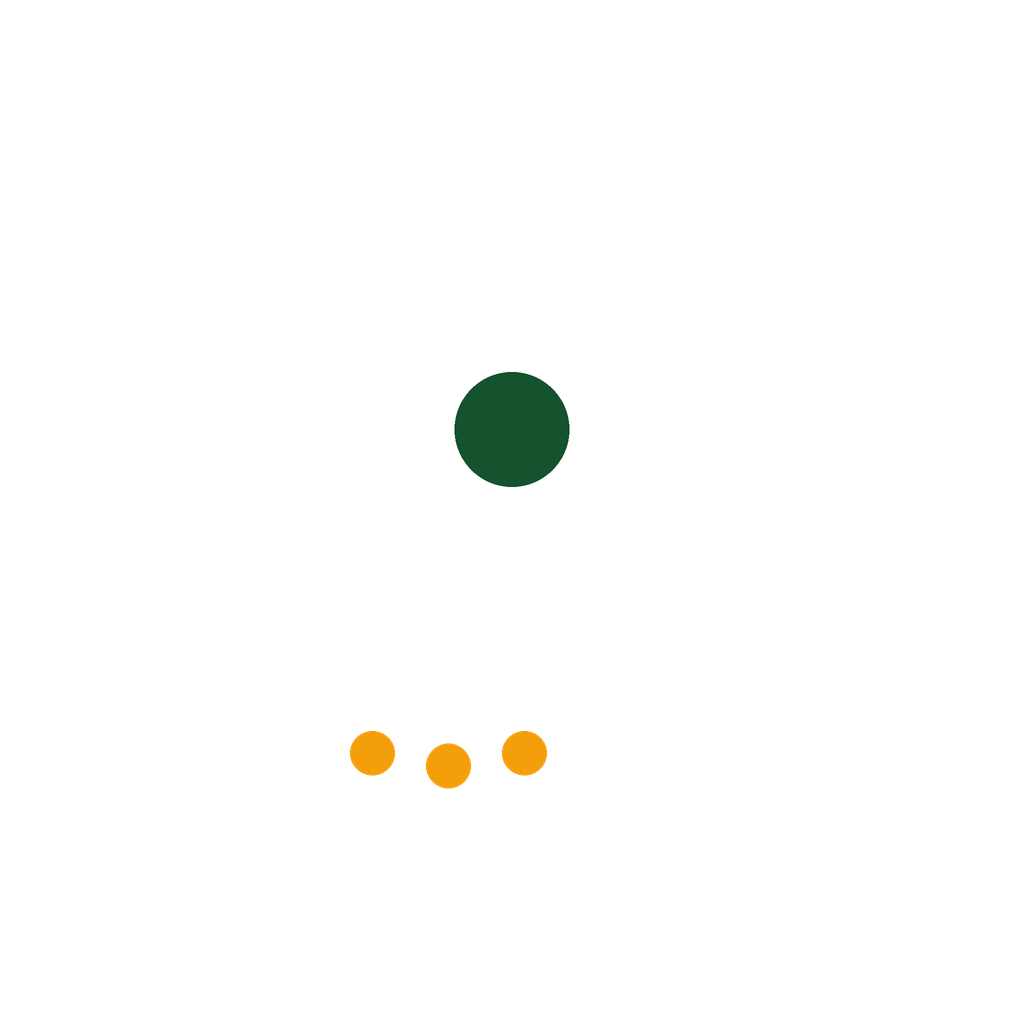
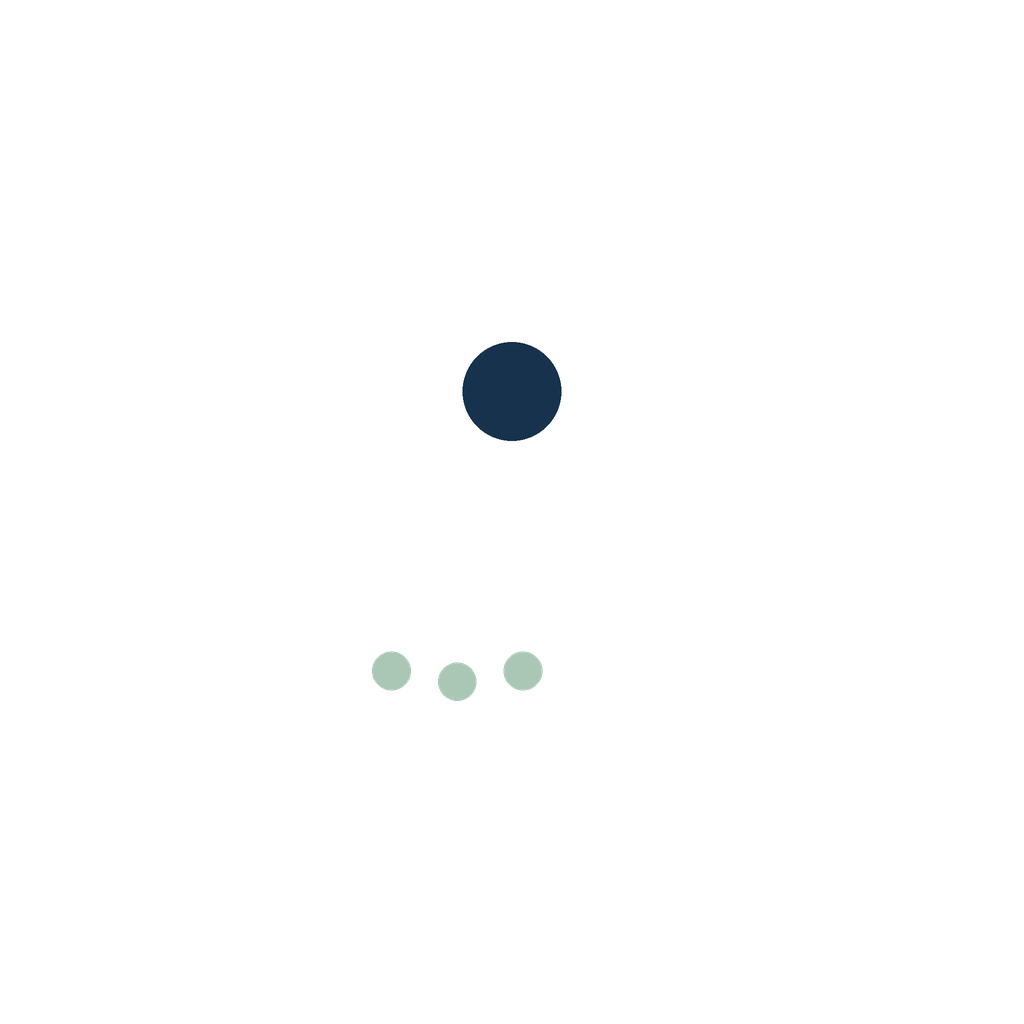
Add files via upload

Changed region(s): [[0.3438, 0.625, 0.5312, 0.7812], [0.4375, 0.3125, 0.5625, 0.5]]

diff --git a/www/app.js b/www/app.js
@@ -8,7 +8,7 @@ const kv={get:async k=>{const d=await dbp;return new Promise((r,j)=>{const q=d.t
 set:async(k,v)=>{const d=await dbp;return new Promise((r,j)=>{const t=d.transaction('kv','readwrite');t.objectStore('kv').put(v,k);t.oncomplete=()=>r();t.onerror=t.onabort=()=>j(t.error||new Error('Transaksi dibatalkan'))})}};
 const kvg=k=>kv.get(k).catch(e=>{console.error('baca gagal',k,e)});
 let F=[],PM=[],S={coord:'dd',unit:'metric',base:'osm'},mode=null,draft=[],fix=null,tracking=false,tcoords=[],tline,target=null,cur=null,pick=null,hdg=null;
-let saveWarned=false;
+let saveWarned=false,t0=0,bgP=null,trkSaved=0;
 const persist=()=>Promise.all([kv.set('F',F),kv.set('S',S)]).then(()=>{saveWarned=false}).catch(e=>{console.error('simpan gagal',e);if(!saveWarned){saveWarned=true;toast('⚠ Data GAGAL tersimpan (penyimpanan penuh?). Ekspor data Anda sekarang.')}});
 const toast=t=>{const e=$('#toast');e.textContent=t;e.style.display='block';clearTimeout(toast.t);toast.t=setTimeout(()=>e.style.display='none',2800)};
 // ---------- peta ----------
@@ -42,8 +42,9 @@ function brg(a,b){const r=Math.PI/180,dl=(b[1]-a[1])*r,y=Math.sin(dl)*Math.cos(b
 const card=d=>['U','TL','T','TG','S','BD','B','BL'][Math.round(d/45)%8];
 // ---------- GPS, kompas, HUD ----------
 let gpsMsg='Mencari GPS… (pergi ke tempat terbuka)',gpsOn=false;
+const applyFix=(lat,lon,acc,hd,sp)=>{fix={lat,lon,acc,hd,sp,t:Date.now()};kv.set('last',fix).catch(()=>{});onFix()};
 async function startGPS(){const G=C&&C.Plugins&&C.Plugins.Geolocation;
- const cb=p=>{if(!p)return;fix={lat:p.coords.latitude,lon:p.coords.longitude,acc:p.coords.accuracy,hd:p.coords.heading,sp:p.coords.speed,t:Date.now()};kv.set('last',fix).catch(()=>{});onFix()};
+ const cb=p=>{if(p)applyFix(p.coords.latitude,p.coords.longitude,p.coords.accuracy,p.coords.heading,p.coords.speed)};
  if(G&&native){
   if(gpsOn)return;
   let st;try{st=await G.checkPermissions()}catch(e){st={location:'granted'}}
@@ -57,7 +58,7 @@ let gm,gc,tgl;
 function onFix(){const ll=[fix.lat,fix.lon];
  if(!gm){gm=L.circleMarker(ll,{radius:8,color:'#fff',weight:3,fillColor:'#2563eb',fillOpacity:1}).addTo(GL);gc=L.circle(ll,{radius:fix.acc,weight:1,interpolate:0}).addTo(GL)}
  else{gm.setLatLng(ll);gc.setLatLng(ll).setRadius(fix.acc)}
- if(tracking&&fix.acc<=50){const l=tcoords[tcoords.length-1];if(!l||map.distance([l[1],l[0]],ll)>3){tcoords.push([fix.lon,fix.lat]);tline.setLatLngs(tcoords.map(c=>[c[1],c[0]]))}}
+ if(tracking&&fix.acc<=50){const l=tcoords[tcoords.length-1];if(!l||map.distance([l[1],l[0]],ll)>3){tcoords.push([fix.lon,fix.lat]);tline.setLatLngs(tcoords.map(c=>[c[1],c[0]]));saveTrk()}}
  if(fix.hd!=null&&fix.sp>1)setHdg(fix.hd);
  if(target){if(tgl)map.removeLayer(tgl);tgl=L.polyline([ll,[target.lat,target.lon]],{color:'#f59e0b',dashArray:'6'}).addTo(map)}
  hud()}
@@ -71,10 +72,22 @@ function setHdg(h){hdg=h;$('#ar').style.transform=`rotate(${h}deg)`;$('#hd').tex
 addEventListener('deviceorientationabsolute',e=>{if(e.alpha!=null)setHdg((360-e.alpha)%360)},true);
 function locate(){if(fix)map.setView([fix.lat,fix.lon],Math.max(map.getZoom(),16));else toast('GPS belum mendapat sinyal')}
 let pm;function setPick(ll){pick=ll;if(pm)map.removeLayer(pm);pm=L.circleMarker(ll,{radius:7,color:'#7c3aed'}).addTo(map);hud()}
-// ---------- track ----------
-function toggleTrack(){const b=$('#bt');
- if(!tracking){tracking=true;tcoords=[];tline=L.polyline([],{color:'#16a34a',weight:4}).addTo(map);b.classList.add('on');toast('Merekam track (jaga layar tetap menyala)')}
- else{tracking=false;b.classList.remove('on');map.removeLayer(tline);if(tcoords.length>1)newF('LineString',tcoords,{name:'Track '+new Date().toLocaleString('id-ID')});else toast('Track terlalu pendek');tcoords=[]}}
+// ---------- track (tetap merekam saat layar dikunci / aplikasi diminimalkan) ----------
+// Android menghentikan GPS WebView begitu aplikasi di latar belakang. Maka saat merekam, TAPAK menjalankan
+// layanan latar depan (foreground service) lewat plugin @capacitor-community/background-geolocation,
+// dengan notifikasi permanen. Titik juga disimpan ke IndexedDB berkala agar jejak selamat bila aplikasi tertutup.
+const BG=()=>native&&C.Plugins&&(C.Plugins.BackgroundGeolocation||(C.registerPlugin&&C.registerPlugin('BackgroundGeolocation')));
+function bgStart(){const B=BG();if(!B){if(native)toast('Rekam latar belakang tidak tersedia di build ini');return}
+ if(bgP)return;
+ bgP=B.addWatcher({backgroundTitle:'TAPAK sedang merekam jejak',backgroundMessage:'Spectra CC · Ketuk untuk membuka TAPAK',requestPermissions:false,stale:false,distanceFilter:3},(l,e)=>{
+  if(e){if(e.code==='NOT_AUTHORIZED'){toast('Izin lokasi diperlukan agar rekaman tetap jalan di latar belakang');bgStop()}return}
+  if(l)applyFix(l.latitude,l.longitude,l.accuracy,l.bearing,l.speed)}).catch(err=>{bgP=null;console.error('bg watcher',err);toast('Rekam di latar belakang gagal aktif. Biarkan TAPAK tetap terbuka.')})}
+async function bgStop(){const B=BG(),p=bgP;bgP=null;if(!B||!p)return;try{const id=await p;if(id!=null)await B.removeWatcher({id})}catch(e){console.error('bg stop',e)}}
+function saveTrk(force){const n=Date.now();if(!force&&n-trkSaved<8000)return;trkSaved=n;kv.set('trk',{t0,coords:tcoords}).catch(()=>{})}
+function startTrack(c,t){tracking=true;tcoords=c||[];t0=t||Date.now();if(tline)map.removeLayer(tline);
+ tline=L.polyline(tcoords.map(p=>[p[1],p[0]]),{color:'#158b90',weight:5}).addTo(map);saveTrk(true);bgStart()}
+async function endTrack(){tracking=false;if(tline){map.removeLayer(tline);tline=null}const c=tcoords;tcoords=[];await bgStop();trkSaved=0;kv.set('trk',null).catch(()=>{});return c}
+document.addEventListener('visibilitychange',()=>{if(document.visibilityState==='hidden'&&tracking)saveTrk(true)});
 // ---------- menggambar & mengukur ----------
 const sheet=h=>{const s=$('#sheet');s.innerHTML='<div class=grab></div><button class=x onclick=closeSheet()>✕</button>'+h;s.hidden=false;s.scrollTop=0},closeSheet=()=>{$('#sheet').hidden=true};
 function startMode(m){closeSheet();mode=m;draft=[];DG.clearLayers();$('#dbar').hidden=false;$('#dinfo').textContent=m=='point'?'Ketuk peta untuk menaruh titik':'Ketuk peta untuk menambah vertex'}
@@ -183,8 +196,8 @@ async function out(name,blob){const b64=await new Promise(r=>{const fr=new FileR
 const geom=f=>({type:f.type,coordinates:f.type=='Point'?f.coords[0]:f.type=='Polygon'?[[...f.coords,f.coords[0]]]:f.coords});
 const gj=(trunc)=>({type:'FeatureCollection',features:F.map(f=>{const p={nama:f.props.name,deskripsi:f.props.desc};
  for(const[k,v]of Object.entries(f.props.custom))p[trunc?k.slice(0,10):k]=v;p[trunc?'foto':'foto']=f.photos.map(x=>x.name).join(';');return{type:'Feature',properties:p,geometry:geom(f)}})});
-const expGJ=()=>out('patroli.geojson',new Blob([JSON.stringify(gj(),null,1)],{type:'application/geo+json'}));
-async function expKMZ(){const z=new JSZip();let k='<?xml version="1.0" encoding="UTF-8"?><kml xmlns="http://www.opengis.net/kml/2.2"><Document><name>Patroli</name><Style id="s"><LineStyle><color>ff481de1</color><width>3</width></LineStyle><PolyStyle><color>55481de1</color></PolyStyle></Style>';
+const expGJ=()=>out('patroli.geojson',new Blob([JSON.stringify({...gj(),generator:'TAPAK - Spectra CC (Spectra Citra Cendekia)'},null,1)],{type:'application/geo+json'}));
+async function expKMZ(){const z=new JSZip();let k='<?xml version="1.0" encoding="UTF-8"?><kml xmlns="http://www.opengis.net/kml/2.2"><Document><name>Patroli</name><description>Dibuat dengan TAPAK · Spectra CC (Spectra Citra Cendekia)</description><Style id="s"><LineStyle><color>ff481de1</color><width>3</width></LineStyle><PolyStyle><color>55481de1</color></PolyStyle></Style>';
  F.forEach(f=>{const co=f.coords.map(c=>c[0]+','+c[1]+',0').join(' '),g=f.type=='Point'?`<Point><coordinates>${co}</coordinates></Point>`:f.type=='LineString'?`<LineString><coordinates>${co}</coordinates></LineString>`:`<Polygon><outerBoundaryIs><LinearRing><coordinates>${co} ${f.coords[0][0]},${f.coords[0][1]},0</coordinates></LinearRing></outerBoundaryIs></Polygon>`;
  const ed=Object.entries(f.props.custom).map(([a,b])=>`<Data name="${esc(a)}"><value>${esc(b)}</value></Data>`).join('');
  const im=f.photos.map(p=>{z.file('files/'+p.name,p.data.split(',')[1],{base64:true});return`<img src="files/${p.name}" width="400"/>`}).join('');
@@ -195,4 +208,5 @@ async function expSHP(){if(!window.shpwrite)return toast('Modul SHP tidak termua
  F.forEach(f=>f.photos.forEach(p=>z.file('patroli/foto/'+p.name,p.data.split(',')[1],{base64:true})));out('patroli_shp.zip',await z.generateAsync({type:'blob'}))}catch(e){toast('SHP gagal: '+e.message)}}
 // ---------- start ----------
 (async()=>{try{navigator.storage&&navigator.storage.persist&&navigator.storage.persist()}catch(e){}purgeExports();
-S={...S,...(await kvg('S')||{})};F=await kvg('F')||[];const last=await kvg('last');if(last){fix={...last,t:0};map.setView([last.lat,last.lon],14);gpsMsg='Posisi terakhir diketahui; menunggu GPS…'}PM=await kvg('PM')||[];setBase(S.base);draw();PM.forEach(showPM);startGPS();hud()})();
+S={...S,...(await kvg('S')||{})};F=await kvg('F')||[];const last=await kvg('last');if(last){fix={...last,t:0};map.setView([last.lat,last.lon],14);gpsMsg='Posisi terakhir diketahui; menunggu GPS…'}PM=await kvg('PM')||[];setBase(S.base);draw();PM.forEach(showPM);startGPS();hud();
+const tk=await kvg('trk');if(tk&&tk.coords&&tk.coords.length){startTrack(tk.coords,tk.t0);if(window.trackUI)trackUI();toast('Rekaman jejak sebelumnya dilanjutkan ('+tk.coords.length+' titik)')}})();

diff --git a/www/style.css b/www/style.css
@@ -1,4 +1,4 @@
-:root{--g:#14532d;--g2:#166534;--gl:#dcfce7;--a:#d97706;--ink:#1c1917;--mut:#57534e;--line:#e7e5e4;--sb:env(safe-area-inset-bottom,0px);--st:env(safe-area-inset-top,0px)}
+:root{--g:#17324d;--g2:#158b90;--gl:#dce9ef;--gr:#357954;--a:#d97706;--serif:Cambria,'Noto Serif',Georgia,'Times New Roman',serif;--ink:#1c1917;--mut:#57534e;--line:#e7e5e4;--sb:env(safe-area-inset-bottom,0px);--st:env(safe-area-inset-top,0px)}
 *{-webkit-tap-highlight-color:transparent;box-sizing:border-box}
 html,body{margin:0;height:100%;font:16px/1.4 system-ui,-apple-system,Roboto,sans-serif;color:var(--ink);overflow:hidden}
 #map{position:absolute;inset:0 0 calc(66px + var(--sb)) 0;background:#e7e5e4}
@@ -22,7 +22,8 @@ nav .add{color:var(--g)}nav .add b{width:58px;height:58px;line-height:56px;margi
 #sheet{position:absolute;bottom:calc(66px + var(--sb));left:0;right:0;max-height:72vh;overflow:auto;background:#fff;border-radius:22px 22px 0 0;z-index:1001;padding:22px 16px 16px;box-shadow:0 -4px 16px #0004}
 #sheet .grab{position:absolute;top:8px;left:50%;width:44px;height:5px;margin-left:-22px;border-radius:3px;background:#d6d3d1}
 #sheet .x{position:absolute;top:8px;right:10px;width:40px;height:40px;border:0;border-radius:50%;background:#f5f5f4;font-size:18px}
-h3{margin:0 0 10px;color:var(--g);font-size:20px}h4{margin:14px 0 6px;color:var(--mut);font-size:13px;text-transform:uppercase;letter-spacing:.5px}
+h3{margin:0 0 10px;color:var(--g);font-size:20px;font-family:var(--serif)}
+h3::after{content:'';display:block;width:64px;height:3px;margin-top:6px;background:linear-gradient(90deg,#17324d 0 33%,#158b90 33% 66%,#357954 66% 100%)}h4{margin:14px 0 6px;color:var(--mut);font-size:13px;text-transform:uppercase;letter-spacing:.5px}
 .grid{display:grid;grid-template-columns:1fr 1fr;gap:10px}
 .tile{min-height:84px;border:2px solid var(--line);border-radius:16px;background:#fff;font-size:15px;font-weight:700;color:var(--ink);padding:8px}
 .tile b{display:block;font-size:28px;font-weight:400}.tile.pri{background:var(--g);border-color:var(--g);color:#fff}.tile.sel{border-color:var(--g);background:var(--gl)}
@@ -36,18 +37,24 @@ h3{margin:0 0 10px;color:var(--g);font-size:20px}h4{margin:14px 0 6px;color:var(
 .mut{color:var(--mut);font-size:14px}.empty{text-align:center;padding:24px;color:var(--mut)}
 #dbar{position:absolute;bottom:calc(76px + var(--sb));left:8px;right:8px;z-index:1002;background:var(--g);color:#fff;padding:10px;border-radius:16px;display:flex;gap:6px;align-items:center;flex-wrap:wrap;box-shadow:0 3px 10px #0005}
 #dbar span{flex:1 1 100%;font-weight:600}#dbar button{flex:1;min-height:44px;border:0;border-radius:12px;background:#fff;color:var(--g);font-weight:700;font-size:15px}
-#dbar .ok{background:#f59e0b;color:#fff}#dbar .no{flex:0 0 52px;background:#fecaca;color:#991b1b}
+#dbar .ok{background:#158b90;color:#fff}#dbar .no{flex:0 0 52px;background:#fecaca;color:#991b1b}
 #toast{position:absolute;top:30%;left:50%;transform:translateX(-50%);max-width:88vw;text-align:center;background:#1c1917e6;color:#fff;padding:12px 18px;border-radius:14px;z-index:3000;display:none}
 .lt{background:#fffd;border:0;box-shadow:none;font-size:12px;font-weight:700}
 #splash{position:fixed;inset:0;z-index:5000;background:var(--g);color:#fff;display:flex;flex-direction:column;align-items:center;justify-content:center;text-align:center;transition:opacity .5s}
-#splash.off{opacity:0;pointer-events:none}#splash svg{width:120px;height:120px}#splash h1{margin:14px 0 4px;letter-spacing:8px;font-size:40px}
-#splash p{margin:0 0 18px;opacity:.85;font-size:14px}#splash em{color:#fcd34d;font-size:15px}
+#splash.off{opacity:0;pointer-events:none}#splash svg{width:120px;height:120px}#splash h1{margin:14px 0 4px;letter-spacing:8px;font-size:40px;font-family:var(--serif)}
+#splash p{margin:0 0 18px;opacity:.85;font-size:14px}#splash em{color:#a9c7b4;font-size:15px}
 #welcome{position:fixed;inset:0;z-index:4000;background:#0008;display:flex;align-items:center;justify-content:center;padding:18px}
 #welcome[hidden],#sheet[hidden],#dbar[hidden],#tbar[hidden],#hud[hidden]{display:none}
-.card{background:#fff;border-radius:22px;padding:22px;max-width:420px;width:100%}.card h2{margin:0 0 12px;color:var(--g)}
+.card{background:#fff;border-radius:22px;padding:22px;max-width:420px;width:100%}.card h2{margin:0 0 12px;color:var(--g);font-family:var(--serif)}
 .step{display:flex;gap:12px;margin:12px 0;align-items:flex-start}.step>b{flex:none;width:34px;height:34px;border-radius:50%;background:var(--g);color:#fff;text-align:center;line-height:34px}
 .big{width:100%;min-height:54px;border:0;border-radius:16px;background:var(--g);color:#fff;font-size:18px;font-weight:700;margin-top:8px}
-.about{text-align:center}.about svg{width:84px;height:84px}
+.about{text-align:center}.about svg{width:84px;height:84px}.about h3::after{margin-left:auto;margin-right:auto}
+.byline{margin-top:14px;padding-top:12px;border-top:1px solid var(--line)}.byline small{color:var(--mut)}
+.byline .lg{background:#17324d;border-radius:14px;padding:6px 10px;margin:8px auto;max-width:300px}.byline img{width:100%;display:block}
+.foot{margin:14px 0 0;text-align:center;color:var(--mut);font-size:12px}
+#splash .by{margin-top:36px}#splash .by small{display:block;opacity:.8;font-size:12px;margin-bottom:4px}#splash .by img{width:min(220px,60vw)}
+#splash .cbar{position:absolute;left:50%;bottom:calc(28px + var(--sb));width:min(260px,64vw);margin-left:calc(min(260px,64vw) / -2);display:flex;height:4px}
+#splash .cbar i{flex:1}#splash .cbar i:nth-child(1){background:#fff}#splash .cbar i:nth-child(2){background:#158b90}#splash .cbar i:nth-child(3){background:#357954}
 
 #perm{position:fixed;inset:0;z-index:4500;background:#000a;display:flex;align-items:center;justify-content:center;padding:18px}
 #perm[hidden]{display:none}#perm .card{max-height:90vh;overflow:auto}

diff --git a/www/ui.js b/www/ui.js
@@ -11,15 +11,14 @@ window.hud=function(){const g=$('#gps');
   h+=`🎯 <b>${esc(target.name)}</b><br>Jarak ${fd(map.distance([fix.lat,fix.lon],[target.lat,target.lon]))} · Arah ${b.toFixed(0)}° ${card(b)}<br><button onclick="target=null;if(tgl)map.removeLayer(tgl);hud()">Batalkan tujuan</button>`}
  if(pick)h+=`${h?'<hr>':''}📌 ${fmt(pick.lat,pick.lng)}<br><button onclick="navigator.clipboard&&navigator.clipboard.writeText('${pick.lat.toFixed(6)}, ${pick.lng.toFixed(6)}');toast('Koordinat disalin')">Salin</button><button onclick="newF('Point',[[pick.lng,pick.lat]])">Tandai</button><button onclick="setTarget(pick.lat,pick.lng,'Titik pilihan')">Tuju ke sini</button><button onclick="pick=null;map.removeLayer(pm);hud()">✕</button>`;
  const e=$('#hud');e.innerHTML=h;e.hidden=!h};
-let t0=0;
 window.trackUI=function(){const b=$('#bt'),t=$('#tbar');b.classList.toggle('rec',tracking);$('#nrect').textContent=tracking?'Berhenti':'Rekam';
  if(tracking){const s=Math.floor((Date.now()-t0)/1e3),p=n=>String(n).padStart(2,'0');t.hidden=false;t.innerHTML=`⏺ Merekam · ${fd(len(tcoords))} · ${p(Math.floor(s/3600))}:${p(Math.floor(s/60)%60)}:${p(s%60)}`}else t.hidden=true};
 setInterval(trackUI,1000);
 {const o=window.onFix;window.onFix=function(){o();trackUI()}}
 window.toggleTrack=function(){
- if(!tracking){tracking=true;tcoords=[];t0=Date.now();tline=L.polyline([],{color:'#16a34a',weight:5}).addTo(map);toast('Rekam jejak dimulai.\nJaga layar tetap menyala.');trackUI()}
- else{if(!confirm('Berhenti merekam dan simpan jejak?'))return;tracking=false;map.removeLayer(tline);const c=tcoords;tcoords=[];trackUI();
-  if(c.length>1)newF('LineString',c,{name:'Jejak '+new Date().toLocaleString('id-ID')});else toast('Jejak terlalu pendek, tidak disimpan')}};
+ if(!tracking){startTrack();toast('Rekam jejak dimulai.\nTetap jalan saat layar dikunci atau TAPAK diminimalkan.');trackUI()}
+ else{if(!confirm('Berhenti merekam dan simpan jejak?'))return;endTrack().then(c=>{trackUI();
+  if(c.length>1)newF('LineString',c,{name:'Jejak '+new Date().toLocaleString('id-ID')});else toast('Jejak terlalu pendek, tidak disimpan')})}};
 window.pDraw=()=>sheet(`<h3>Tambah ke peta</h3><div class=grid>
  ${T('📍','Tandai lokasi saya',"if(!fix||!fix.t){needPerm(['location']);return toast('GPS belum siap')};closeSheet();newF('Point',[[fix.lon,fix.lat]])",'pri')}
  ${T('👆','Tandai titik di peta',"startMode('point')")}${T('〰','Gambar jalur',"startMode('line')")}${T('⬠','Gambar area',"startMode('polygon')")}
@@ -52,17 +51,20 @@ window.pMenu=function(){const o=(k,a)=>Object.entries(a).map(([v,t])=>`<option v
  <h4>Satuan jarak & luas</h4><select onchange="S.unit=this.value;persist()">${o('unit',{metric:'Meter / Kilometer / Hektar',imperial:'Kaki / Mil / Acre',nautical:'Mil laut'})}</select>
  <h4>Simpan & bagikan data</h4><div class=grid>${T('🌐','GeoJSON','expGJ()')}${T('🌍','KMZ (Google Earth)','expKMZ()')}${T('🗂','SHP (ArcGIS/QGIS)','expSHP()')}</div>
  <p class=mut>Pilih aplikasi tujuan (Files, Drive, WhatsApp, dll).</p>
- <h4>Info</h4><button class=btn onclick=pHelp()>❓ Cara pakai</button><button class=btn onclick=pAbout()>ℹ Tentang TAPAK</button>`)};
+ <h4>Info</h4><button class=btn onclick=pHelp()>❓ Cara pakai</button><button class=btn onclick=pAbout()>ℹ Tentang TAPAK</button>
+ <p class=foot>TAPAK v${esc(window.APP_VER||'')} · dikembangkan oleh Spectra CC</p>`)};
 window.pHelp=()=>sheet(`<h3>Cara pakai</h3>
  <p><b>📴 Peta tanpa sinyal</b><br>Peta → Impor Peta PDF → pilih berkas GeoPDF dari HP.</p>
  <p><b>📍 Menandai temuan</b><br>Tambah → Tandai lokasi saya. Isi nama dan data, ambil foto, lalu Simpan.</p>
- <p><b>⏺ Merekam jalur patroli</b><br>Tekan Rekam saat mulai, Berhenti saat selesai. Jaga layar tetap menyala.</p>
+ <p><b>⏺ Merekam jalur patroli</b><br>Tekan Rekam saat mulai, Berhenti saat selesai. Rekaman <b>tetap berjalan</b> saat layar dikunci atau TAPAK diminimalkan; notifikasi “TAPAK sedang merekam jejak” akan tampil. Jangan menutup TAPAK dari daftar aplikasi. Di HP Xiaomi, Oppo, Vivo, atau Samsung, atur Baterai TAPAK ke “Tanpa batasan”.</p>
  <p><b>📏 Mengukur</b><br>Tambah → Ukur jarak / Ukur luas, lalu ketuk titik-titik di peta.</p>
  <p><b>🧭 Menuju sebuah titik</b><br>Buka data → Tuju ke sini. Jarak dan arah tampil di atas.</p>
  <p><b>📤 Mengirim data</b><br>Lainnya → pilih GeoJSON, KMZ, atau SHP.</p>
  <p><b>🔤 Ganti format koordinat</b><br>Ketuk kotak koordinat di kiri atas.</p>`);
 window.pAbout=()=>sheet(`<div class=about>${$('#logo').outerHTML}<h3>TAPAK</h3><p><b>Teknologi Akuisisi dan Pencatatan Hutan Kita</b></p><p><em>Every Track Tells a Story.</em></p>
- <p class=mut>Peta, jejak, dan catatan lapangan untuk perlindungan hutan berbasis masyarakat.<br>Bekerja tanpa internet. Versi 1.0</p></div>`);
+ <p class=mut>Peta, jejak, dan catatan lapangan untuk perlindungan hutan berbasis masyarakat.<br>Bekerja tanpa internet. Versi ${esc(window.APP_VER||'')}</p>
+ <div class=byline><small>Dikembangkan oleh</small><div class=lg><img src=img/spectra-cc-logo.png alt=\"Spectra CC · Citra Cendekia\"></div>
+ <p class=mut><b>Spectra Citra Cendekia</b><br>Science into Sustainable Solutions.<br><small>Konsultan geospasial · Terdaftar AHU-015113.AH.01.30 Tahun 2025, Kubu Raya, Kalimantan Barat</small></p></div></div>`);
 setTimeout(()=>$('#splash').classList.add('off'),1700);
 kvg('seen').then(v=>{if(!v)setTimeout(()=>$('#welcome').hidden=false,1800)});
 window.closeWelcome=()=>{$('#welcome').hidden=true;kv.set('seen',1).catch(()=>{})};

diff --git a/www/index.html b/www/index.html
@@ -1,7 +1,7 @@
 <!DOCTYPE html><html lang=id><head><meta charset=utf-8>
 <meta name=viewport content="width=device-width,initial-scale=1,maximum-scale=1,user-scalable=no,viewport-fit=cover">
 <meta http-equiv=Content-Security-Policy content="default-src 'self'; script-src 'self' 'unsafe-inline'; style-src 'self' 'unsafe-inline'; img-src 'self' data: blob: https://*.tile.openstreetmap.org https://tile.openstreetmap.org https://*.tile.opentopomap.org https://server.arcgisonline.com; worker-src 'self' blob:; connect-src 'self' data: blob:; object-src 'none'; base-uri 'none'; form-action 'none'">
-<meta name=theme-color content="#14532d"><title>TAPAK</title>
+<meta name=theme-color content="#17324d"><title>TAPAK · Spectra CC</title>
 <link rel=stylesheet href=lib/leaflet.css><link rel=stylesheet href=style.css></head><body>
 <div id=map></div>
 <div id=top>
@@ -24,14 +24,15 @@
  <h2>Selamat datang di TAPAK</h2>
  <p class=step><b>1</b><span><b>Pasang peta</b><br>Tekan <i>Peta</i> → <i>Impor Peta PDF</i> agar bisa dipakai tanpa sinyal.</span></p>
  <p class=step><b>2</b><span><b>Tandai temuan</b><br>Tekan tombol hijau <i>＋ Tambah</i> untuk menandai titik, jalur, atau area.</span></p>
- <p class=step><b>3</b><span><b>Rekam perjalanan</b><br>Tekan <i>Rekam</i> saat mulai patroli, tekan lagi saat selesai.</span></p>
+ <p class=step><b>3</b><span><b>Rekam perjalanan</b><br>Tekan <i>Rekam</i> saat mulai patroli, tekan lagi saat selesai. Tetap merekam walau layar dikunci atau aplikasi diminimalkan.</span></p>
  <button class=big onclick=closeWelcome()>Mulai</button></div></div>
 <div id=splash>
- <svg id=logo viewBox="0 0 100 100"><rect width=100 height=100 rx=22 fill="#14532d"/><circle cx=50 cy=37 r=23 fill="#fff"/><path d="M28.5 46h43L50 77z" fill="#fff"/><circle cx=50 cy=37 r=9 fill="#14532d"/><circle cx=28 cy=88 r=3.5 fill="#f59e0b"/><circle cx=40 cy=90 r=3.5 fill="#f59e0b"/><circle cx=52 cy=88 r=3.5 fill="#f59e0b"/></svg>
- <h1>TAPAK</h1><p>Teknologi Akuisisi dan Pencatatan<br>Hutan Kita</p><em>Every Track Tells a Story.</em></div>
+ <svg id=logo viewBox="0 0 100 100"><rect width=100 height=100 rx=22 fill="#17324d"/><circle cx=50 cy=37 r=23 fill="#fff"/><path d="M28.5 46h43L50 77z" fill="#fff"/><circle cx=50 cy=37 r=9 fill="#17324d"/><circle cx=28 cy=88 r=3.5 fill="#a9c7b4"/><circle cx=40 cy=90 r=3.5 fill="#a9c7b4"/><circle cx=52 cy=88 r=3.5 fill="#a9c7b4"/></svg>
+ <h1>TAPAK</h1><p>Teknologi Akuisisi dan Pencatatan<br>Hutan Kita</p><em>Every Track Tells a Story.</em>
+ <div class=by><small>Dikembangkan oleh</small><img src=img/spectra-cc-logo.png alt="Spectra CC · Citra Cendekia"></div><div class=cbar><i></i><i></i><i></i></div></div>
 <input type=file id=pdfin accept="application/pdf" hidden onchange="importPDF(this.files[0]);this.value=''">
 <input type=file id=cam accept="image/*" capture=environment hidden onchange="addPhoto(this)">
 <input type=file id=gal accept="image/*" hidden onchange="addPhoto(this)">
 <script src=lib/leaflet.js></script><script src=lib/pdf.min.js></script><script src=lib/proj4.js></script>
 <script src=lib/jszip.min.js></script><script src=lib/piexif.js></script><script src=lib/shpwrite.js></script>
-<script src=app.js></script><script src=ui.js></script><script src=perm.js></script></body></html>
+<script src=lib/version.js></script><script src=app.js></script><script src=ui.js></script><script src=perm.js></script></body></html>

diff --git a/www/perm.js b/www/perm.js
@@ -83,7 +83,11 @@ function showPerm(st, hint) {
 }
 
 // ---------- alur ----------
-function onPermOk(st) { if (st.location === 'ok' && typeof startGPS === 'function') startGPS(); }
+function onPermOk(st) {
+  if (st.location === 'ok' && typeof startGPS === 'function') startGPS();
+  // rekaman jejak sudah berjalan tetapi pemantau latar belakang belum aktif (izin baru diberikan)
+  if (st.location === 'ok' && tracking && typeof bgStart === 'function') bgStart();
+}
 
 async function grantClick() {
   if (permBusy) return;

diff --git a/prepare.js b/prepare.js
@@ -16,3 +16,8 @@ for (const f of files) {
   catch (e) { gagal++; console.error('GAGAL', f, '-', e.message); }
 }
 if (gagal) { console.error(`\n${gagal} library gagal disalin. Build dihentikan.`); process.exit(1); }
+
+// Tulis versi aplikasi dari package.json agar layar "Tentang" selalu cocok dengan versi APK.
+const v = require('./package.json').version;
+fs.writeFileSync('www/lib/version.js', `window.APP_VER=${JSON.stringify(v)};\n`);
+console.log('ok version', v);

diff --git a/README.md b/README.md
@@ -5,6 +5,8 @@
 
 Aplikasi Android untuk pemetaan, navigasi, dan pencatatan lapangan yang bekerja tanpa internet.
 
+> Dikembangkan oleh **Spectra Citra Cendekia (Spectra CC)** · *Science into Sustainable Solutions.*
+
 ---
 
 ## 1. Tentang Aplikasi
@@ -14,7 +16,8 @@ Aplikasi Android untuk pemetaan, navigasi, dan pencatatan lapangan yang bekerja 
 | **Nama** | TAPAK |
 | **Kepanjangan** | Teknologi Akuisisi dan Pencatatan Hutan Kita |
 | **Tagline** | Every Track Tells a Story. |
-| **Versi** | 1.1.0 |
+| **Versi** | 1.2.0 |
+| **Pengembang** | Spectra Citra Cendekia (Spectra CC) |
 | **ID aplikasi** | `id.tapak.patroli` |
 | **Platform** | Android |
 | **Bahasa antarmuka** | Indonesia |
@@ -26,7 +29,7 @@ TAPAK dibuat sebagai alternatif ringan untuk aplikasi peta lapangan berbayar. Ap
 - **Navigasi dan orientasi peta** memakai posisi GPS, kompas, dan skala.
 - **Peta offline:** impor GeoPDF dari HP, tampil sesuai posisi sebenarnya, dengan pengaturan transparansi.
 - **Peta online gratis** (jalan, kontur, satelit) saat ada internet.
-- **Rekam jejak patroli (tracking):** jarak dan durasi tampil langsung, hasilnya disimpan sebagai jalur.
+- **Rekam jejak patroli (tracking):** jarak dan durasi tampil langsung, hasilnya disimpan sebagai jalur. **Tetap merekam saat layar dikunci atau aplikasi diminimalkan** (layanan latar depan dengan notifikasi permanen), dan jejak yang belum disimpan dipulihkan otomatis bila aplikasi tertutup.
 - **Tandai titik, gambar jalur, dan gambar area** langsung di peta atau dari lokasi GPS.
 - **Ukur jarak dan luas** (metrik, imperial, atau nautika).
 - **Atribut objek:** nama, keterangan, dan data tambahan bebas (jenis, jumlah, kondisi, dan lain-lain).
@@ -49,6 +52,7 @@ TAPAK dibuat sebagai alternatif ringan untuk aplikasi peta lapangan berbayar. Ap
 | `@capacitor/camera` | 6.1.3 | Meminta izin kamera (foto tetap diambil lewat input bawaan) |
 | `@capacitor/filesystem` | ^6.0.1 | Menyimpan berkas ekspor sementara |
 | `@capacitor/share` | ^6.0.2 | Membagikan berkas ekspor |
+| `@capacitor-community/background-geolocation` | 1.2.24 | Rekam jejak di latar belakang (foreground service) |
 | `@capacitor/assets` (dev) | 3.0.5 | Membuat ikon dan splash Android |
 
 **Library peta dan data (versi TAPAK 1.0)** (disalin ke `www/lib` saat build agar jalan offline)
@@ -63,7 +67,7 @@ TAPAK dibuat sebagai alternatif ringan untuk aplikasi peta lapangan berbayar. Ap
 
 **Penyimpanan:** IndexedDB di dalam aplikasi (objek, foto, peta PDF, pengaturan).
 
-**Izin Android:** lokasi (presisi dan perkiraan), kamera, dan internet; ditulis otomatis ke AndroidManifest oleh workflow build. Aplikasi **memeriksa izin setiap dibuka dan setiap kembali ke layar depan**, lalu menampilkan dialog bila ada yang belum diberikan (lihat bagian 6). Pilih foto dari galeri memakai pemilih foto bawaan Android yang tidak memerlukan izin tambahan.
+**Izin Android:** lokasi (presisi dan perkiraan), kamera, internet, layanan latar depan (`FOREGROUND_SERVICE`, `FOREGROUND_SERVICE_LOCATION`), dan notifikasi (`POST_NOTIFICATIONS`); ditulis otomatis ke AndroidManifest oleh workflow build. Aplikasi **memeriksa izin setiap dibuka dan setiap kembali ke layar depan**, lalu menampilkan dialog bila ada yang belum diberikan (lihat bagian 6). Pilih foto dari galeri memakai pemilih foto bawaan Android yang tidak memerlukan izin tambahan.
 
 ## 4. Struktur Repo
 
@@ -71,6 +75,7 @@ TAPAK dibuat sebagai alternatif ringan untuk aplikasi peta lapangan berbayar. Ap
 www/index.html, style.css          Tampilan
 www/app.js, ui.js                   Logika aplikasi
 www/perm.js                         Manajer izin (lokasi, kamera)
+www/img/spectra-cc-logo.png         Logo Spectra CC (dari Brand Guideline v1.0)
 assets/                             Ikon dan splash sumber
 prepare.js                          Menyalin library ke www/lib saat build
 capacitor.config.json               Nama dan ID aplikasi
@@ -87,6 +92,11 @@ package.json, package-lock.json      Dependensi (versi dikunci)
 - **Peta online tidak disimpan** untuk offline. Tanpa internet, hanya peta PDF yang tampil. Pemakaian tile OpenStreetMap harus mengikuti kebijakan penggunaannya.
 
 **Tracking dan GPS**
+
+- **Tracking latar belakang** memakai layanan latar depan Android, sehingga selalu ada notifikasi “TAPAK sedang merekam jejak” selama merekam. Di Android 13+, izinkan notifikasi untuk TAPAK agar tanda ini terlihat (rekaman tetap berjalan walau notifikasi ditolak).
+- `useLegacyBridge: true` di `capacitor.config.json` **jangan dihapus**: tanpa itu, pembaruan lokasi latar belakang berhenti sekitar 5 menit setelah aplikasi diminimalkan.
+- Jangan geser-tutup TAPAK dari daftar aplikasi terbaru saat merekam. Pada HP Xiaomi, Oppo, Vivo, Samsung, dan merek lain dengan penghemat baterai agresif, atur Baterai TAPAK ke **Tanpa batasan**.
+- Rekaman yang terputus (aplikasi ditutup paksa, HP restart) dilanjutkan otomatis saat TAPAK dibuka lagi; bagian yang hilang selama terputus tampak sebagai garis lurus.
 - Fix GPS pertama bisa lama, terutama di dalam bangunan atau di bawah kanopi lebat. Titik dengan akurasi buruk (lebih dari 50 m) tidak dicatat dalam track.
 - Kompas bergantung pada sensor HP dan bisa perlu dikalibrasi. Peta tidak berputar mengikuti arah HP.
 
@@ -117,4 +127,4 @@ Pelaporan kerentanan: lihat `SECURITY.md`.
 
 ## 7. Lisensi dan Atribusi
 
-Peta dasar online: © kontributor OpenStreetMap, OpenTopoMap, dan Esri. Library pihak ketiga memakai lisensi masing-masing (Leaflet BSD-2, pdf.js Apache-2.0, proj4 MIT, JSZip MIT/GPLv3, piexifjs MIT, shp-write BSD). Tentukan lisensi TAPAK sendiri sesuai kebijakan organisasi Anda.
+Peta dasar online: © kontributor OpenStreetMap, OpenTopoMap, dan Esri. Library pihak ketiga memakai lisensi masing-masing (Leaflet BSD-2, pdf.js Apache-2.0, proj4 MIT, JSZip MIT/GPLv3, piexifjs MIT, shp-write BSD). Logo dan identitas visual Spectra CC mengikuti *Brand Identity & Strategic Guideline* v1.0 (Spectra Citra Cendekia, terdaftar AHU-015113.AH.01.30 Tahun 2025). Tentukan lisensi TAPAK sendiri sesuai kebijakan organisasi Anda.

diff --git a/SECURITY.md b/SECURITY.md
@@ -2,7 +2,7 @@
 
 ## Versi yang didukung
 
-Hanya rilis terbaru (saat ini **1.1.x**) yang menerima perbaikan keamanan.
+Hanya rilis terbaru (saat ini **1.2.x**) yang menerima perbaikan keamanan.
 
 ## Melaporkan kerentanan
 
@@ -15,6 +15,7 @@ reproduksi, versi TAPAK, dan versi Android. Kami berusaha menanggapi dalam 7 har
 ## Model ancaman singkat
 
 - Data (objek, foto, jejak, peta PDF) disimpan **hanya di HP** (IndexedDB). Tidak ada server TAPAK.
+- Rekaman latar belakang berjalan sebagai layanan Android dengan notifikasi permanen; titik jejak hanya disimpan di HP.
 - Satu-satunya koneksi keluar adalah ke server tile peta (OpenStreetMap, OpenTopoMap, Esri) lewat HTTPS.
 - Berkas yang diimpor (GeoPDF) diperlakukan tidak tepercaya: ukuran dibatasi, tanda `%PDF-` diperiksa,
   dan pdf.js dijalankan dengan `isEvalSupported:false` (mitigasi CVE-2024-4367).
